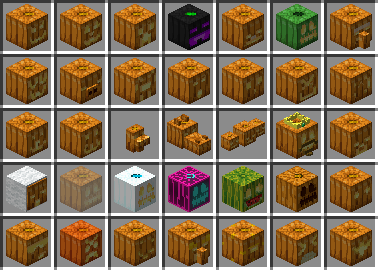
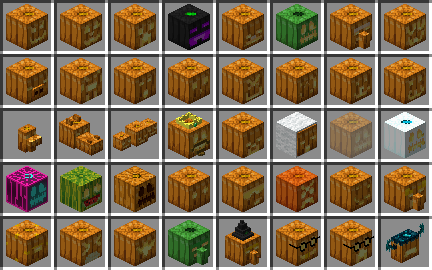
Version 0.4.0

diff --git a/platformsrc/curseforge.html b/platformsrc/curseforge.html
@@ -17,7 +17,7 @@
     </a>
 </p>
 <p>
-    Jack o'Cache is a mod all about collecting various pumpkins. There are currently <em><strong>30</strong></em>
+    Jack o'Cache is a mod all about collecting various pumpkins. There are currently <em><strong>40</strong></em>
     different pumpkins to collect that can be obtained by either killing a mob or by transforming a pumpkin. Some even
     have a unique model!
 </p>
@@ -76,13 +76,13 @@
     <p>
         - Creeper Pumpkin: 50% of dropping from Creepers<br/>
         - Enderman Pumpkin: 50% of dropping from Endermen<br/>
-        - Skeleton Pumpkin: 50% of dropping from Skeletons<br/>
-        - Rotten Pumpkin: 50% of dropping from Zombies<br/>
-        - Villager Pumpkin: 95% of dropping from Villagers<br/>
+        - Skeleton Pumpkin: 50% of dropping from Skeletons, Wither Skeletons and Strays<br/>
+        - Rotten Pumpkin: 50% of dropping from Zombies, Husks and Drowneds<br/>
+        - Villager Pumpkin: 95% of dropping from Villagers and 75% from Wandering Merchants<br/>
         - Pig Pumpkin: 35% of dropping from Pigs<br/>
-        - Spider Pumpkin: 50% of dropping from Spiders<br/>
+        - Spider Pumpkin: 50% of dropping from Spiders and Cave Spiders<br/>
         - Ghast Pumpkin: 80% of dropping from Ghasts<br/>
-        - Slime Pumpkin: 40% of dropping from Slimes<br/>
+        - Slime Pumpkin: 30% of dropping from Slimes<br/>
         - Dog Pumpkin: 65% of dropping from Wolves<br/>
         - Cat Pumpkin: 75% of dropping from Cats<br/>
         - Chicken Pumpkin: 35% of dropping from Chickens<br/>
@@ -94,7 +94,10 @@
         - Snow Golem Pumpkin: 50% of dropping from Snow Golem<br/>
         - Illager Pumpkin: 50% of dropping from Evokers, Pillagers and Vindicators<br/>
         - Guardian Pumpkin: 50% of dropping from Guardians or 80% from Elder Guardians<br/>
-        - Bat Pumpkin: 75% of dropping from Bats
+        - Bat Pumpkin: 75% of dropping from Bats<br/>
+        - Rotten Villager Pumpkin: 80% of dropping from Zombie Villagers<br/>
+        - Witch Pumpkin: 60% of dropping from Witches<br/>
+        - Warden Pumpkin: 100% of dropping from Wardens (Alternative method available with Transformations)
     </p>
 </div>
 <h3>Transformations</h3>
@@ -102,15 +105,18 @@
     <p>
         - uwu Pumpkin: In the Nether between Y level 0 and 35<br/>
         - nice Pumpkin: A log below the pumpkin<br/>
-        - :^) Pumpkin: A sign on the pumpkin with ":^)" on the second line<br/>
+        - :^) Pumpkin: A sign on the pumpkin with ":^)" written on it<br/>
         - Pumpking: A gold block on top of the pumpkin<br/>
-        - Ghost Pumpkin: Soul Sand below the pumpkin<br/>
-        - Snow Pumpkin: Snow on top and a snow block below the pumpkin<br/>
+        - Ghost Pumpkin: Soul Sand or Soul Soil below the pumpkin<br/>
+        - Snow Pumpkin: Snow (layer) on top and a snow block below the pumpkin<br/>
         - Melon Pumpkin: A melon block on top OR below the pumpkin<br/>
         - Alpha Pumpkin: Netherrack, Soul Sand and Glowstone on top of the pumpkin and a Jack o'Lantern below<br/>
         - SpookyJam Pumpkin: A white stained glass block under the pumpkin<br/>
         - Cool Pumpkin: In a beach biome<br/>
         - Angry Pumpkin: Fire on top of the pumpkin<br/>
-        - Puking Pumpkin: Pumpkin seeds around the pumpkin
+        - Puking Pumpkin: Pumpkin seeds around the pumpkin<br/>
+        - Nerd Pumpkin: A sign on the pumpkin with "Actually" written on it<br/>
+        - Nerd Creeper Pumpkin: A Nerd Pumpkin and Creeper Pumpkin above and below of the pumpkin (or vice-versa)<br/>
+        - Warden Pumpkin: In an Ancient City with a Warden 10 blocks in range of the pumpkin (Alternative method available with Drops)<br/>
     </p>
 </div>

diff --git a/README.md b/README.md
@@ -7,7 +7,7 @@
 
 ---
 
-Jack o'Cache is a mod all about collecting various pumpkins. There are currently ***30*** different pumpkins to collect that can be obtained by either killing a mob or by transforming a pumpkin. Some even have a unique model!
+Jack o'Cache is a mod all about collecting various pumpkins. There are currently ***40*** different pumpkins to collect that can be obtained by either killing a mob or by transforming a pumpkin. Some even have a unique model!
 
 
 # Get Started
@@ -47,13 +47,13 @@ Of course, every pumpkin is able to be crafted into a jack o'lantern variant usi
 
 - Creeper Pumpkin: 50% of dropping from Creepers
 - Enderman Pumpkin: 50% of dropping from Endermen
-- Skeleton Pumpkin: 50% of dropping from Skeletons
-- Rotten Pumpkin: 50% of dropping from Zombies
-- Villager Pumpkin: 95% of dropping from Villagers
+- Skeleton Pumpkin: 50% of dropping from Skeletons, Wither Skeletons and Strays
+- Rotten Pumpkin: 50% of dropping from Zombies, Husks and Drowneds
+- Villager Pumpkin: 95% of dropping from Villagers and 75% from Wandering Merchants
 - Pig Pumpkin: 35% of dropping from Pigs
-- Spider Pumpkin: 50% of dropping from Spiders
+- Spider Pumpkin: 50% of dropping from Spiders and Cave Spiders
 - Ghast Pumpkin: 80% of dropping from Ghasts
-- Slime Pumpkin: 40% of dropping from Slimes
+- Slime Pumpkin: 30% of dropping from Slimes
 - Dog Pumpkin: 65% of dropping from Wolves
 - Cat Pumpkin: 75% of dropping from Cats
 - Chicken Pumpkin: 35% of dropping from Chickens
@@ -66,6 +66,9 @@ Of course, every pumpkin is able to be crafted into a jack o'lantern variant usi
 - Illager Pumpkin: 50% of dropping from Evokers, Pillagers and Vindicators
 - Guardian Pumpkin: 50% of dropping from Guardians or 80% from Elder Guardians
 - Bat Pumpkin: 75% of dropping from Bats
+- Rotten Villager Pumpkin: 80% of dropping from Zombie Villagers
+- Witch Pumpkin: 60% of dropping from Witches
+- Warden Pumpkin: 100% of dropping from Wardens (Alternative method available with Transformations)
 
 </details>
 
@@ -74,15 +77,18 @@ Of course, every pumpkin is able to be crafted into a jack o'lantern variant usi
 
 - uwu Pumpkin: In the Nether between Y level 0 and 35
 - nice Pumpkin: A log below the pumpkin
-- :^) Pumpkin: A sign on the pumpkin with ":^)" on the second line
+- :^) Pumpkin: A sign on the pumpkin with ":^)" written on it
 - Pumpking: A gold block on top of the pumpkin
-- Ghost Pumpkin: Soul Sand below the pumpkin
-- Snow Pumpkin: Snow on top and a snow block below the pumpkin
+- Ghost Pumpkin: Soul Sand or Soul Soil below the pumpkin
+- Snow Pumpkin: Snow (layer) on top and a snow block below the pumpkin
 - Melon Pumpkin: A melon block on top OR below the pumpkin
 - Alpha Pumpkin: Netherrack, Soul Sand and Glowstone on top of the pumpkin and a Jack o'Lantern below
 - SpookyJam Pumpkin: A white stained glass block under the pumpkin
 - Cool Pumpkin: In a beach biome
 - Angry Pumpkin: Fire on top of the pumpkin
 - Puking Pumpkin: Pumpkin seeds around the pumpkin
+- Nerd Pumpkin: A sign on the pumpkin with "Actually" written on it
+- Nerd Creeper Pumpkin: A Nerd Pumpkin and Creeper Pumpkin above and below of the pumpkin (or vice-versa)
+- Warden Pumpkin: In an Ancient City with a Warden 10 blocks in range of the pumpkin (Alternative method available with Drops)
 
 </details>

diff --git a/platformsrc/modrinth.md b/platformsrc/modrinth.md
@@ -6,7 +6,7 @@
 
 ---
 
-Jack o'Cache is a mod all about collecting various pumpkins. There are currently ***30*** different pumpkins to collect that can be obtained by either killing a mob or by transforming a pumpkin. Some even have a unique model!
+Jack o'Cache is a mod all about collecting various pumpkins. There are currently ***40*** different pumpkins to collect that can be obtained by either killing a mob or by transforming a pumpkin. Some even have a unique model!
 
 
 # Get Started
@@ -46,13 +46,13 @@ Of course, every pumpkin is able to be crafted into a jack o'lantern variant usi
 
 - Creeper Pumpkin: 50% of dropping from Creepers
 - Enderman Pumpkin: 50% of dropping from Endermen
-- Skeleton Pumpkin: 50% of dropping from Skeletons
-- Rotten Pumpkin: 50% of dropping from Zombies
-- Villager Pumpkin: 95% of dropping from Villagers
+- Skeleton Pumpkin: 50% of dropping from Skeletons, Wither Skeletons and Strays
+- Rotten Pumpkin: 50% of dropping from Zombies, Husks and Drowneds
+- Villager Pumpkin: 95% of dropping from Villagers and 75% from Wandering Merchants
 - Pig Pumpkin: 35% of dropping from Pigs
-- Spider Pumpkin: 50% of dropping from Spiders
+- Spider Pumpkin: 50% of dropping from Spiders and Cave Spiders
 - Ghast Pumpkin: 80% of dropping from Ghasts
-- Slime Pumpkin: 40% of dropping from Slimes
+- Slime Pumpkin: 30% of dropping from Slimes
 - Dog Pumpkin: 65% of dropping from Wolves
 - Cat Pumpkin: 75% of dropping from Cats
 - Chicken Pumpkin: 35% of dropping from Chickens
@@ -65,6 +65,9 @@ Of course, every pumpkin is able to be crafted into a jack o'lantern variant usi
 - Illager Pumpkin: 50% of dropping from Evokers, Pillagers and Vindicators
 - Guardian Pumpkin: 50% of dropping from Guardians or 80% from Elder Guardians
 - Bat Pumpkin: 75% of dropping from Bats
+- Rotten Villager Pumpkin: 80% of dropping from Zombie Villagers
+- Witch Pumpkin: 60% of dropping from Witches
+- Warden Pumpkin: 100% of dropping from Wardens (Alternative method available with Transformations)
 
 </details>
 
@@ -73,15 +76,18 @@ Of course, every pumpkin is able to be crafted into a jack o'lantern variant usi
 
 - uwu Pumpkin: In the Nether between Y level 0 and 35
 - nice Pumpkin: A log below the pumpkin
-- :^) Pumpkin: A sign on the pumpkin with ":^)" on the second line
+- :^) Pumpkin: A sign on the pumpkin with ":^)" written on it
 - Pumpking: A gold block on top of the pumpkin
-- Ghost Pumpkin: Soul Sand below the pumpkin
-- Snow Pumpkin: Snow on top and a snow block below the pumpkin
+- Ghost Pumpkin: Soul Sand or Soul Soil below the pumpkin
+- Snow Pumpkin: Snow (layer) on top and a snow block below the pumpkin
 - Melon Pumpkin: A melon block on top OR below the pumpkin
 - Alpha Pumpkin: Netherrack, Soul Sand and Glowstone on top of the pumpkin and a Jack o'Lantern below
 - SpookyJam Pumpkin: A white stained glass block under the pumpkin
 - Cool Pumpkin: In a beach biome
 - Angry Pumpkin: Fire on top of the pumpkin
 - Puking Pumpkin: Pumpkin seeds around the pumpkin
+- Nerd Pumpkin: A sign on the pumpkin with "Actually" written on it
+- Nerd Creeper Pumpkin: A Nerd Pumpkin and Creeper Pumpkin above and below of the pumpkin (or vice-versa)
+- Warden Pumpkin: In an Ancient City with a Warden 10 blocks in range of the pumpkin (Alternative method available with Drops)
 
 </details>

diff --git a/platformsrc/changelogs/0.4.0.md b/platformsrc/changelogs/0.4.0.md
@@ -1,0 +1,66 @@
+This update focused on adding a config to the mod and also to convert the drops into a global loot modifier, which users
+can then modify. Along these changes are also some quality of life improvements
+
+# Additions
+
+5 new pumpkins and jack o'lanterns
+Configurations
+
+## Blocks
+
+- Rotten Villager Pumpkin
+- Rotten Hmm o'Lantern
+- Witch Pumpkin
+- Heeheehee o'Lantern
+- Nerd Pumpkin
+- Nerd Jack o'Lantern
+- Nerd Creeper Pumpkin
+- Nerd Creep o'Lantern
+- Warden Pumpkin
+- Sculk o'Lantern
+
+## Config
+
+- `alwaysHalloween`
+- `replaceChance`
+- Jack o'Slicer Settings
+    - `jackOSlicerMobChanceHard`
+    - `jackOSlicerMobChance`
+    - `jackOSlicerDropChance`
+    - `jackOSlicerRepairItem`
+- Transformations: Each transformation pumpkin's transformation can be turned off
+    - `uwuTransformation`
+    - `niceTransformation`
+    - `emoteTransformation`
+    - `pumpkingTransformation`
+    - `ghostTransformation`
+    - `snowTransformation`
+    - `melonTransformation`
+    - `alphaTransformation`
+    - `spookyJamTransformation`
+    - `coolTransformation`
+    - `angryTransformation`
+    - `pukingTransformation`
+    - `nerdTransformation`
+    - `nerdCreeperTransformation`
+
+# Changes
+
+## Blocks
+
+- Skeleton Pumpkin is now also dropped by Wither Skeleton and Stray
+- Rotten Pumpkin is now also dropped by Husk and Drowned
+- Villager Pumpkin is now also dropped by Wandering Merchant
+- Spider Pumpkin is now also dropped by Cave Spider
+- Slime Pumpkin's drop chance reduces to 30% from 40%
+- Ghost Pumpkin can now also be made with Soul Soil
+- :^) Pumpkin now can have the ":^)" written on any line
+
+## Loot
+
+The pumpkins that are dropped by mobs are now global loot modifiers instead of being hardcoded,
+which means that they are now configurable.
+
+## Other
+
+- Hovering over items while in the Pumpkins creative tab will highlight the items in orange
